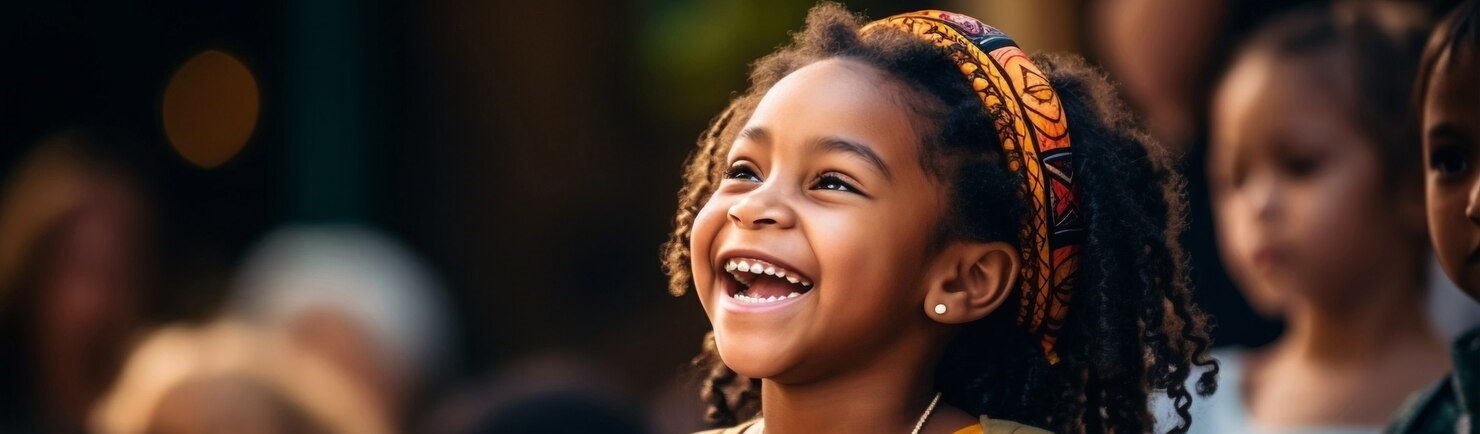
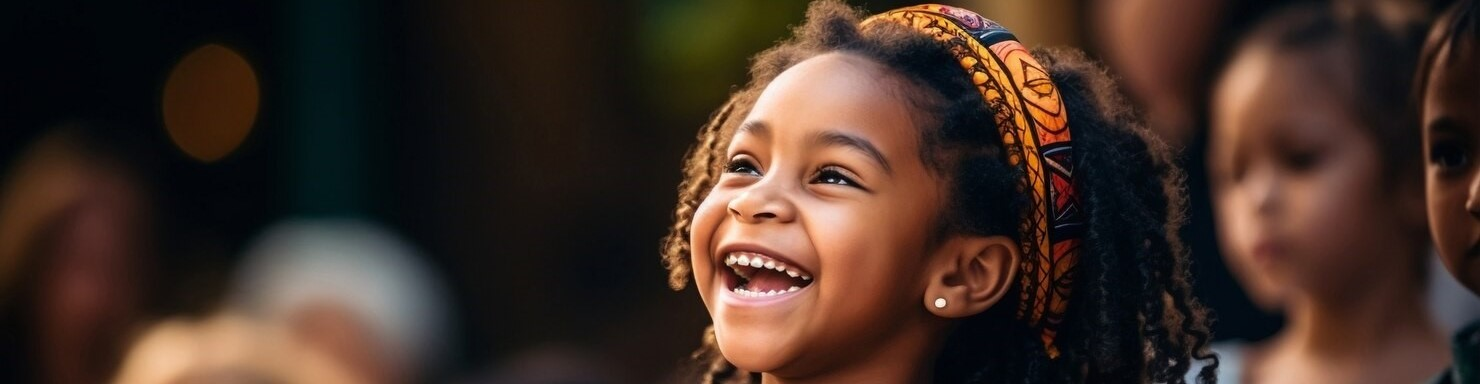
files

diff --git a/index.html b/index.html
@@ -14,9 +14,35 @@
     li {
       margin: 0;
       padding: 0;
-
     }
+    @media screen and (max-width: 600px) {
+body{ font-size: 16px;
+}
+}
 
+@media screen and (max-width: 600px) {
+  img {
+    max-width: 100%;
+  }
+}
+
+@media screen and (max-width: 600px) {
+  .container {
+    padding: 10%;
+  }
+}
+
+@media screen and (max-width: 600px) {
+  .nav-menu {
+    display: none;
+  }
+}
+
+@media screen and (max-width: 600px) {
+  .article {
+    width: 100%;
+  }
+}
     /* Global styles */
     body {
       border: 0;
@@ -26,9 +52,7 @@
     margin: 0;
     padding: 30;
     display: block;*/
-
-
-    }
+  }
 
     /* Header styles */
     header {

diff --git a/personal.html b/personal.html
@@ -6,7 +6,7 @@
     <meta name="viewport" content="width=device-width, initial-scale=1.0">
     <title>Your Webpage Title</title>
     <style>
-        body {
+     body {
             font-family: 'Segoe UI', Tahoma, Geneva, Verdana, sans-serif;
             margin: 0;
             padding: 0;
@@ -37,6 +37,8 @@
 
         nav {
             margin-top: 10px;
+            width: 10%;
+
         }
 
         nav a {
@@ -44,6 +46,7 @@
             text-decoration: none;
             margin-left: 40px;
             font-size: 18px;
+
 
         }
 

diff --git a/Note.html b/Note.html
@@ -9,7 +9,7 @@
         body {
             font-family: Arial, sans-serif;
             margin: 20px;
-            background: #eec4c0 52%;
+            background: rgb(150, 100, 38);
         }
 
         #note-container {
@@ -35,7 +35,7 @@
 </head>
 
 <body>
-    <h1>Thank You for Leaving a Comment</h1>
+    <h1 style="color: white;"  >Thank You for Leaving a Comment</h1>
 
     <div id="note-container">
         <textarea id="note-textarea" placeholder="Write your note/review here..."></textarea>

diff --git a/style.css b/style.css
@@ -6,6 +6,35 @@
   box-sizing: border-box;
 }
 
+@media screen and (max-width: 600px) {
+body{ font-size: 16px;
+}
+}
+
+@media screen and (max-width: 600px) {
+  img {
+    max-width: 100%;
+  }
+}
+
+@media screen and (max-width: 600px) {
+  .container {
+    padding: 10%;
+  }
+}
+
+@media screen and (max-width: 600px) {
+  .nav-menu {
+    display: none;
+  }
+}
+
+@media screen and (max-width: 600px) {
+  .article {
+    width: 100%;
+  }
+}
+  
 .body-text {
 
   background-color: #0d0d9e;

diff --git a/professional.html b/professional.html
@@ -37,6 +37,8 @@
 
         nav {
             margin-top: 10px;
+            width: 10%;
+
         }
 
         nav a {
@@ -44,6 +46,7 @@
             text-decoration: none;
             margin-left: 40px;
             font-size: 18px;
+
 
         }
 
